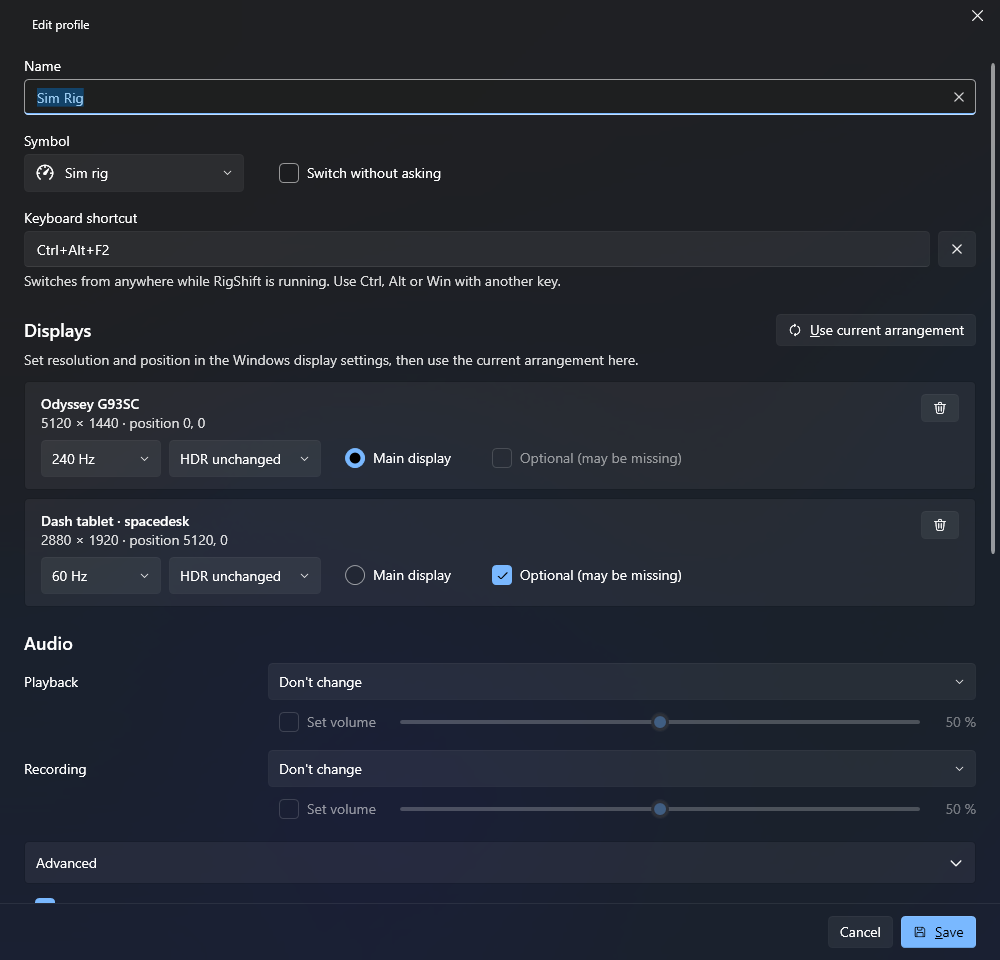
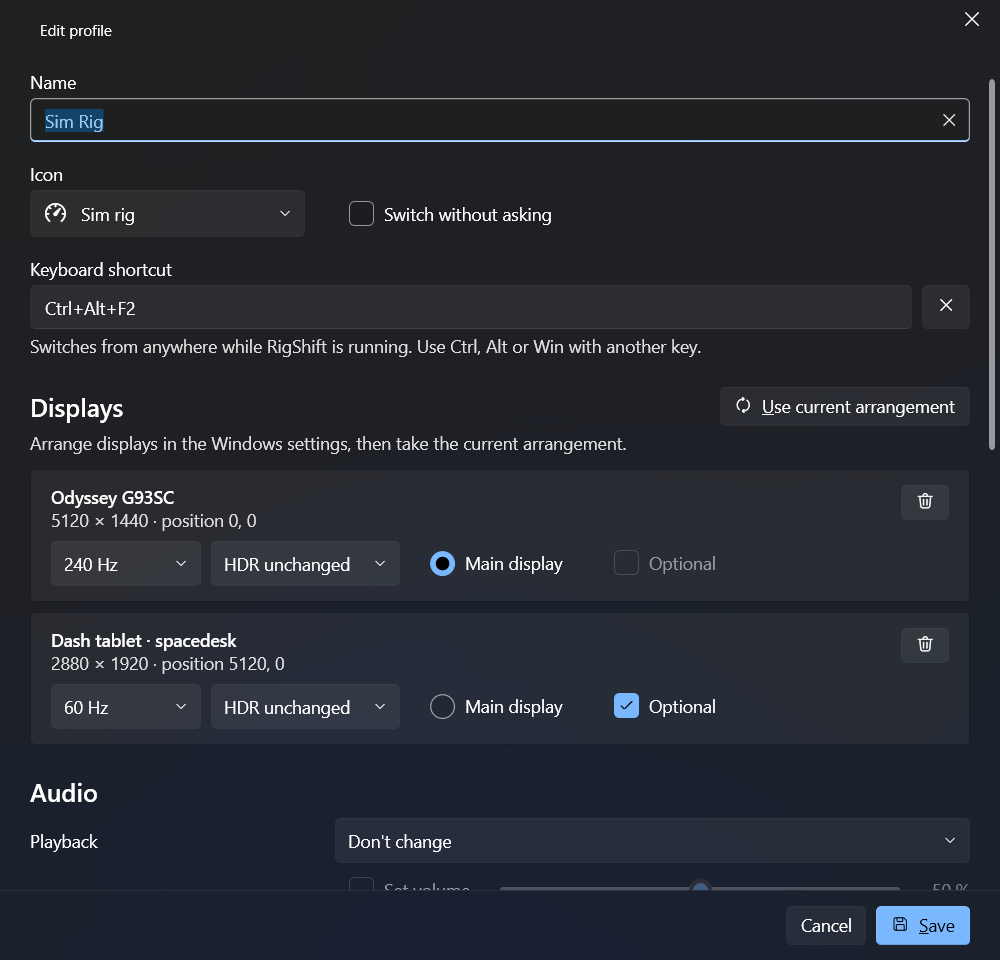
docs: shorter README and roadmap, fresh screenshots

diff --git a/README.md b/README.md
@@ -6,173 +6,99 @@
 </h1>
 
 [![CI](https://github.com/ManuelStaggl/RigShift/actions/workflows/ci.yml/badge.svg)](https://github.com/ManuelStaggl/RigShift/actions/workflows/ci.yml)
+[![Release](https://img.shields.io/github/v/release/ManuelStaggl/RigShift?label=release)](https://github.com/ManuelStaggl/RigShift/releases/latest)
 [![License: MIT](https://img.shields.io/badge/license-MIT-blue.svg)](LICENSE)
 
-**Desk to sim rig in one step.** Turn on your wheelbase and RigShift switches your monitors, sound and apps over to
-the rig. Turn it off and your desk is back. A small, free Windows tray app for sim racers who share one PC between a
-desk and a cockpit – ultrawide, triple screens, TV or VR.
+RigShift switches a Windows PC between your desk and your sim rig: display layout, sound and apps in one step, by
+hotkey, from the tray, or automatically when the wheelbase turns on.
 
-**[Download the latest version](https://github.com/ManuelStaggl/RigShift/releases/latest)** · Windows 10/11 · no
-admin rights · [What's new](CHANGELOG.md)
+**[Download](https://github.com/ManuelStaggl/RigShift/releases/latest)** · Windows 10/11 · free, no admin rights ·
+[Changelog](CHANGELOG.md)
 
 <p align="center">
   <picture>
     <source media="(prefers-color-scheme: light)" srcset="docs/screenshots/profiles-light.png">
-    <img alt="RigShift main window with a Desk and a Sim Rig profile, the rig starting SimHub and Crew Chief once the wheel is on" src="docs/screenshots/profiles-dark.png" width="820">
+    <img alt="RigShift with a Desk and a Sim Rig profile" src="docs/screenshots/profiles-dark.png" width="820">
   </picture>
 </p>
 
-## Why RigShift?
+## Features
 
-Switching between desk and rig in Windows means opening the display settings, turning screens on and off, picking the
-main display again, changing the sound output – and hoping nothing goes black. With several high-resolution or
-high-refresh monitors it often does: Windows turns the screens on one by one, the graphics card runs out of outputs
-halfway, and you end up with a dark screen or an error message.
-
-RigShift hands Windows the whole target setup in one go, so it either works completely or nothing changes. And if you
-see no picture after a switch, it simply switches back after a few seconds.
-
-## What it does
-
-**Switching**
-
-- **One profile per setup** – which monitors are on, where they sit, which is the main display, resolution, refresh
-  rate and HDR, plus playback and microphone device with volume.
-- **Safety net:** keep the new layout or it reverts on its own.
-- **Robust on real hardware:** wakes monitors from standby, asks you to switch on a monitor that is off and waits for
-  it, recognizes monitors after reboots and cable swaps, and picks up optional screens (e.g. a spacedesk tablet) as
-  soon as they appear.
-- **Notices when Windows switches for you:** if Windows restores a profile's layout by itself – say, after you switch
-  on a monitor – one click on the notification applies the profile's audio and apps too.
-- **Tells you what's wrong** in plain words instead of an error code.
-
-**Getting into the rig**
-
-- **Wheelbase on = rig.** An automation rule switches when a USB device connects and back when it is gone – after a
-  delay you choose, so a quick power cycle changes nothing. A rule can also wait for several devices, e.g. wheelbase
-  and pedals, and you can give each device your own name. Devices are recognised by model (vendor and product id), so
-  two identical devices look like one; pick a device that only the rig has.
-- **Apps per profile:** start SimHub or Crew Chief, close what you don't need – optionally only once the wheelbase is
-  detected. Pick them from a searchable list of installed and running programs.
-- **Nothing gets lost:** windows left on a screen that is now off move to the main screen.
-- **Race-ready:** keep the PC awake while you only use the wheel, keep game sound loud during Discord calls, and get a
-  warning when Windows may cut power to your USB sim hardware. If the wheelbase drops off USB mid-race, nothing
-  switches back until the game closes.
-
-**Control it your way**
-
-- Tray icon, a keyboard shortcut per profile or one for "back to the previous profile", Stream Deck or button box,
-  `rigshift://` links and a command line.
-- **Backup:** save profiles, rules and settings as one ZIP file and restore them on a new PC.
-
-## Screenshots
+- **Profiles.** Each profile stores which monitors are on, their layout, main display, resolution, refresh rate and
+  HDR, plus playback and microphone device with volume.
+- **Automation.** A rule switches to the rig when your wheelbase (any USB device) connects and back when it is gone,
+  after a delay you choose.
+- **Apps.** Start SimHub, Crew Chief or anything else with a profile and close what you do not need.
+- **One atomic switch.** Windows gets the whole layout at once, so the switch either works or nothing changes. No
+  picture afterwards? It reverts on its own.
+- **Made for real hardware.** Wakes sleeping monitors, waits for one that is off, tolerates optional screens such as a
+  spacedesk tablet, and moves windows off screens that are now dark.
+- **Control it your way.** Tray, hotkeys, Stream Deck, `rigshift://` links, command line. Backup and restore as a ZIP.
 
 | | |
 |---|---|
-| <img alt="Automation page with a wheelbase rule" src="docs/screenshots/automation-dark.png" width="400"> | <img alt="Profile editor with displays, refresh rate and HDR" src="docs/screenshots/profile-editor-dark.png" width="400"> |
-| **Automation** – to the rig when the wheelbase and pedals turn on, back to the desk when they are off, with your own device names. | **Profile editor** – displays with refresh rate, HDR and optional screens, keyboard shortcut, audio, apps. |
-| <img alt="Tray popup for switching profiles" src="docs/screenshots/tray-popup-dark.png" width="400"> | <img alt="Confirmation dialog with countdown" src="docs/screenshots/confirmation-dark.png" width="400"> |
-| **Tray popup** – switch profiles from the notification area. | **Safety net** – keep the new layout or it reverts on its own. |
-| <img alt="Displays page with monitor names" src="docs/screenshots/displays-dark.png" width="400"> | <img alt="Settings page" src="docs/screenshots/settings-dark.png" width="400"> |
-| **Displays** – every connected monitor with the number Windows gives it, your own names, Identify. | **Settings** – default profile, autostart, confirmation time, language, automatic updates. |
-| <img alt="App picker with installed and running programs and a search box" src="docs/screenshots/app-picker-dark.png" width="400"> | |
-| **App picker** – installed and running programs with search; any other program as a file. | |
+| <img alt="Automation page" src="docs/screenshots/automation-dark.png" width="400"> | <img alt="Profile editor" src="docs/screenshots/profile-editor-dark.png" width="400"> |
+| **Automation** – to the rig when wheelbase and pedals are on, back when they are off. | **Profile editor** – displays, refresh rate, HDR, hotkey, audio and apps. |
+| <img alt="Tray popup" src="docs/screenshots/tray-popup-dark.png" width="400"> | <img alt="Confirmation dialog" src="docs/screenshots/confirmation-dark.png" width="400"> |
+| **Tray** – switch from the notification area. | **Safety net** – keep the new layout or it reverts after a countdown. |
 
 ## Getting started
 
-1. Download **`RigShift-win-Setup.exe`** from the [latest release](https://github.com/ManuelStaggl/RigShift/releases/latest)
-   and run it. RigShift installs for your user account and starts in the tray. A portable ZIP is attached as well.
-2. On the first start the **setup assistant** opens: it saves your desk, then your rig after you switch the displays,
-   and optionally a rule that switches when your wheelbase turns on.
-3. Prefer doing it by hand? Arrange your displays in the Windows settings and click **Save current arrangement** for
-   each setup; add rules on **Automation**. The assistant stays available on the **Profiles** page.
+1. Download `RigShift-win-Setup.exe` from the [latest release](https://github.com/ManuelStaggl/RigShift/releases/latest)
+   and run it (a portable ZIP is attached too). RigShift installs per user and starts in the tray.
+2. The setup assistant saves your desk, then your rig after you rearrange the displays, and can add a wheelbase rule.
+3. Later, arrange displays in the Windows settings and click **Save current arrangement**, or edit any profile.
 
-RigShift is a free hobby project and not code-signed, so Windows SmartScreen may say *"Windows protected your PC"*.
-Click **More info → Run anyway**.
-
-Updates install themselves the next time RigShift starts; you can turn that off in **Settings**. Profiles, settings
-and logs live in `%AppData%\RigShift` and are kept when you uninstall; uninstalling removes the autostart entry and
-the `rigshift://` link handler.
+RigShift is not code-signed, so SmartScreen may warn on first start: **More info → Run anyway**. Updates install on
+the next start (Settings). Data lives in `%AppData%\RigShift`.
 
 ## Stream Deck and button boxes
 
-No plugin needed:
-
-- **Hotkey:** give the profile a keyboard shortcut and use the Stream Deck *Hotkey* action or a button box key.
-  Fastest option. One key for both directions: **Settings → Shortcut: back to the previous profile** switches to
-  the profile that was active before (or to the default profile right after a start).
-- **Link:** a Stream Deck *Website* action with `rigshift://apply/Rig`, or `rigshift://toggle` for "back to the
-  previous profile". A link always asks for confirmation, even when "Confirm after switching" is off or the
-  profile's timeout is 0, because any web page can open one.
-- **Shortcut:** **⋯ → Create desktop shortcut** on a profile and point a Stream Deck *Open* action at it.
+- **Hotkey action:** give the profile a keyboard shortcut. **Settings → Back to the previous profile** gives you one
+  key for both directions.
+- **Website action:** `rigshift://apply/Rig` or `rigshift://toggle`. Links always ask for confirmation.
+- **Open action:** **⋯ → Create desktop shortcut** on a profile.
 
 ## Command line
 
 ```bat
 RigShift.exe apply <name> [--no-confirm] [--dry-run]
 RigShift.exe toggle [--no-confirm] [--dry-run]
-RigShift.exe list
 RigShift.exe save <name>
+RigShift.exe list
 RigShift.exe status
 ```
 
-Names are not case-sensitive. `save` stores the current display arrangement and default playback device; an existing
-profile with that name is updated. `toggle` goes back to the previous profile, or to the default profile when none was
-active before. `apply`, `toggle` and `save` start RigShift in the tray if needed and wait for the result.
-
-| Exit code | Meaning |
-|---|---|
-| 0 | Applied (optional displays may be missing), or command succeeded |
-| 1 | Failed, or another switch is running |
-| 2 | Blocked: a required display is missing, nothing changed |
-| 3 | Not confirmed, previous arrangement restored |
-| 4 | Profile not found |
-| 5 | Invalid arguments |
-
-RigShift.exe is a Windows GUI program, so shells do not wait for it. To see output and exit code, run
-`start /wait RigShift.exe status` (cmd) or `Start-Process RigShift.exe status -Wait -NoNewWindow` (PowerShell).
+Exit codes: 0 applied, 1 failed, 2 blocked (required display missing), 3 not confirmed and reverted, 4 profile not
+found, 5 invalid arguments. RigShift.exe is a GUI program; use `start /wait` (cmd) or `Start-Process -Wait -NoNewWindow`
+(PowerShell) to see its output.
 
 ## Requirements
 
-- Windows 10 (2004+) or Windows 11, x64
-- Any graphics card. Tested on NVIDIA; feedback from AMD and Intel users is welcome.
+Windows 10 (2004+) or Windows 11, x64. Any graphics card; tested on NVIDIA, reports from AMD and Intel users are
+welcome.
 
-## Help and feedback
+## Help
 
-A monitor is reported as missing although it is only asleep? See [Monitors in standby](docs/monitor-standby.md) – it
-also explains why HDR is worth trying in Windows first. Pedals or a wheelbase dropping out: see
-[USB power saving](docs/usb-power-saving.md).
+- A monitor counts as missing while it sleeps: [Monitors in standby](docs/monitor-standby.md).
+- Wheelbase or pedals drop off USB: [USB power saving](docs/usb-power-saving.md).
+- Something else: **About & help → Copy diagnostic info** and [open an issue](https://github.com/ManuelStaggl/RigShift/issues/new).
 
-Something not working? Use **About & help → Copy diagnostic info** and open an
-[issue](https://github.com/ManuelStaggl/RigShift/issues/new) – the log from `%AppData%\RigShift\logs` helps too. The
-diagnostic info contains display models and shortened device ids but no audio device IDs, and your user name is replaced; the log files
-are not anonymized (paths with your user name, audio device IDs), so look through them before attaching one. Ideas and pull requests are welcome, see
-[CONTRIBUTING.md](CONTRIBUTING.md) and the [roadmap](docs/ROADMAP.md). RigShift is meant to stay small.
+Ideas and pull requests are welcome, see [CONTRIBUTING.md](CONTRIBUTING.md) and the [roadmap](docs/ROADMAP.md).
+If RigShift saves you time, you can [buy me a coffee](https://ko-fi.com/filthyjoker).
 
-## For developers
+## Development
 
 ```bash
 dotnet build RigShift.slnx
 dotnet test --solution RigShift.slnx
 ```
 
-Requires the .NET 10 SDK (see `global.json`). How switching works and why:
-[architecture](docs/ARCHITECTURE.md) and [display topology rules](docs/display-topology.md).
-
-| Path | Content |
-|---|---|
-| `src/RigShift.Core` | Profiles, topology planner, switch orchestration – no Win32 |
-| `src/RigShift.Windows` | CCD API, Core Audio, USB devices (CsWin32) |
-| `src/RigShift.App` | WPF tray app, CLI |
-| `tests/` | Unit tests (xunit v3) |
-
-## Support
-
-RigShift is free and stays free. If it saves you time on the way into the rig and you'd like to say thanks, you can
-[buy me a coffee on Ko-fi](https://ko-fi.com/filthyjoker) – entirely optional.
+.NET 10 SDK. `RigShift.Core` holds profiles, planner and orchestration without Win32; `RigShift.Windows` the CCD,
+Core Audio and USB layer (CsWin32); `RigShift.App` the WPF tray app and CLI. See [ARCHITECTURE.md](docs/ARCHITECTURE.md)
+and the [display topology rules](docs/display-topology.md).
 
 ## License
 
-Code: [MIT](LICENSE) © 2026 Manuel Staggl.
-The RigShift logo, symbol and app icons are excluded from the MIT license – see [brand assets](docs/brand/README.md)
-for what you may do with them. Forks are welcome, with their own logo.
+[MIT](LICENSE) © 2026 Manuel Staggl. The RigShift logo and icons are not covered by the MIT license, see
+[brand assets](docs/brand/README.md).

diff --git a/docs/ROADMAP.md b/docs/ROADMAP.md
@@ -1,74 +1,28 @@
 # Roadmap
 
-Status legend: 🟢 released · ⚪ planned · ❌ dropped
+RigShift is meant to stay small: switch into the rig and back, reliably. Released features are listed in the
+[changelog](../CHANGELOG.md).
 
-RigShift is meant to stay small: switch into the rig and back, reliably.
+## Planned
 
-## v1.0 – replace the script, small and stable
+- Head-budget limits for AMD and Intel cards, once community reports show where they are. Today the warning
+  ("this card may not drive all of these displays") is NVIDIA-only.
+- Fixes and small improvements from user reports. Releases are batched; hotfixes ship on their own.
 
-| Milestone | Status | Scope |
-|---|---|---|
-| M0 Skeleton | 🟢 | Solution, projects, domain model, interfaces, legacy `.display` parser, CI |
-| M1 Core logic | 🟢 | `TopologyPlanner`, `SwitchOrchestrator`, head-budget heuristic, wait-for-target retry, rollback decision – all unit-tested with a fake configurator |
-| M2 Windows layer | 🟢 | CCD query/apply, Core Audio + `IPolicyConfig`, JSON profile store, legacy import |
-| M3 App | 🟢 | Tray shell, profile list, confirm countdown, toasts, settings (default profile, autostart, timeout, language), diagnostics page |
-| M4 CLI & instance | 🟢 | `RigShift.exe apply …`, named-pipe forwarding, autostart, "save current layout as profile", profile editor |
-| M5 Hardware validation | 🟢 | Desk ↔ rig, sleeping HDMI monitor (error 31), missing spacedesk + follow-up, rollback on no confirmation |
-| M6 Release 1.0 | 🟢 | Velopack package, release workflow, README with screenshots, changelog |
+## Under consideration
 
-## v1.1 / v1.2 – triggering and control
+Ideas that come up regularly and are not ruled out, but need a real use case before they get built:
 
-- 🟢 Global hotkeys per profile (1.2.0)
-- 🟢 `rigshift://apply/<name>` URI scheme (1.2.0)
-- 🟢 Recording device and separate communications role per profile (1.0)
+- VR headsets as part of a profile (today: audio and apps work, the display side is untested).
+- winget distribution.
 
-## v1.3 – getting into the rig
+## Not planned
 
-- 🟢 Volume per profile (playback and recording)
-- 🟢 Launch / stop apps per profile (SimHub, Crew Chief, …), optionally after a USB device is detected
-- 🟢 USB device triggers (wheelbase, headset dongle) with a delay per rule before switching back
-- 🟢 Keep awake per profile: no sleep, screen saver or display timeout
-- 🟢 HDR and refresh rate per display – HDR over HDMI froze the graphics driver of the test PC, also from the Windows
-  settings; 1.4.1 guards the call
-- 🟢 Windows left on switched-off screens move to the main screen
-- 🟢 Warning when Windows may power down a USB trigger device
-- 🟢 Game sound stays loud during calls (Windows communications ducking off per profile)
-- 🟢 Custom monitor names, Displays and About & help pages
+Reviewed and dropped, because they do not belong to the core or are covered by what exists:
 
-## v1.4 – polish after the first hardware round
-
-- 🟢 Automation rules with several USB devices and custom device names (1.4.0)
-- 🟢 Apps start after the switch; hotkeys and automation keep working while they wait for their device (1.4.0)
-- 🟢 Diagnostic info without user name and full device paths (1.4.0, 1.4.1)
-- 🟢 Ask to switch on a monitor that is off and wait for it (1.4.1)
-- 🟢 Known USB devices and refresh rates stay selectable while the device or display is off (1.4.1)
-- 🟢 Display numbers as in the Windows settings (1.5.0)
-- 🟢 App picker with installed and running programs instead of a file dialog (1.5.0)
-- 🟢 Offer to apply audio and apps when Windows itself restores a profile's display layout (1.5.0)
-
-Dropped after a scope review (the tool should stay small):
-
-- ❌ Process triggers with game templates – the switch came too late, while the game was already starting
-- ❌ Power plan per profile – no demand
-- ❌ Local HTTP API – no demand; the CLI, hotkeys and `rigshift://` links cover scripts and Stream Deck
-- ❌ Home Assistant via MQTT discovery – no demand
-- ❌ Focus assist, game mode, night light – no official API
-
-## v1.6 – first-time users
-
-- 🟢 Setup assistant: desk, rig and an optional wheelbase rule on the first start (1.6.0)
-- 🟢 Head-budget warning only for NVIDIA cards (1.6.0)
-- ⚪ AMD / Intel limits from community reports, then per-GPU head-budget presets
-- ❌ winget – not planned for now; the installer and the portable ZIP on GitHub stay the way to get RigShift
-
-## v1.7 – rig-day details
-
-Chosen after a second look at comparable tools (DisplayMagician, DisplayProfileManager, MonitorSwitcher): none of
-their extra features fit the core, so the additions come from rig use itself.
-
-- 🟢 No automatic switch back while a full-screen game is running – a USB hiccup mid-race changes nothing (1.7.0)
-- 🟢 Back to the previous profile: one hotkey, `toggle` on the command line, `rigshift://toggle` (1.7.0)
-- 🟢 Backup and restore of profiles, rules and settings as one ZIP file (1.7.0)
-- ❌ Confirm the countdown with a wheel or controller button – not wanted
-- ❌ Wallpaper or taskbar per profile, DPI scaling, per-app volume, audio-only profiles, DDC/CI monitor inputs, a
-  Stream Deck plugin – outside the core or covered by what exists
+- Game or process triggers with per-game templates (the switch came too late, while the game was already starting).
+- Power plan, wallpaper, taskbar or DPI scaling per profile.
+- Per-app volume and audio-only profiles.
+- Local HTTP API, Home Assistant / MQTT: the CLI, hotkeys and `rigshift://` links cover scripts and Stream Deck.
+- DDC/CI monitor input switching, a Stream Deck plugin, confirmation with a wheel button.
+- Focus assist, game mode, night light: no official API.
